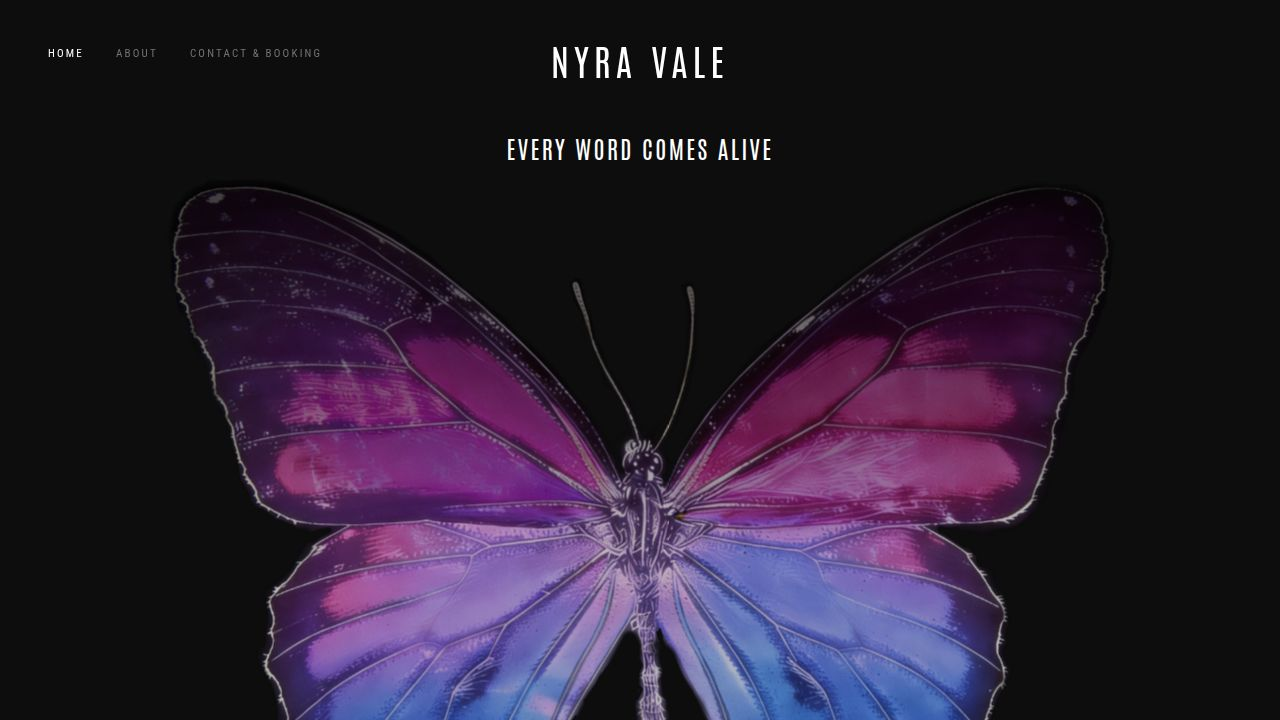
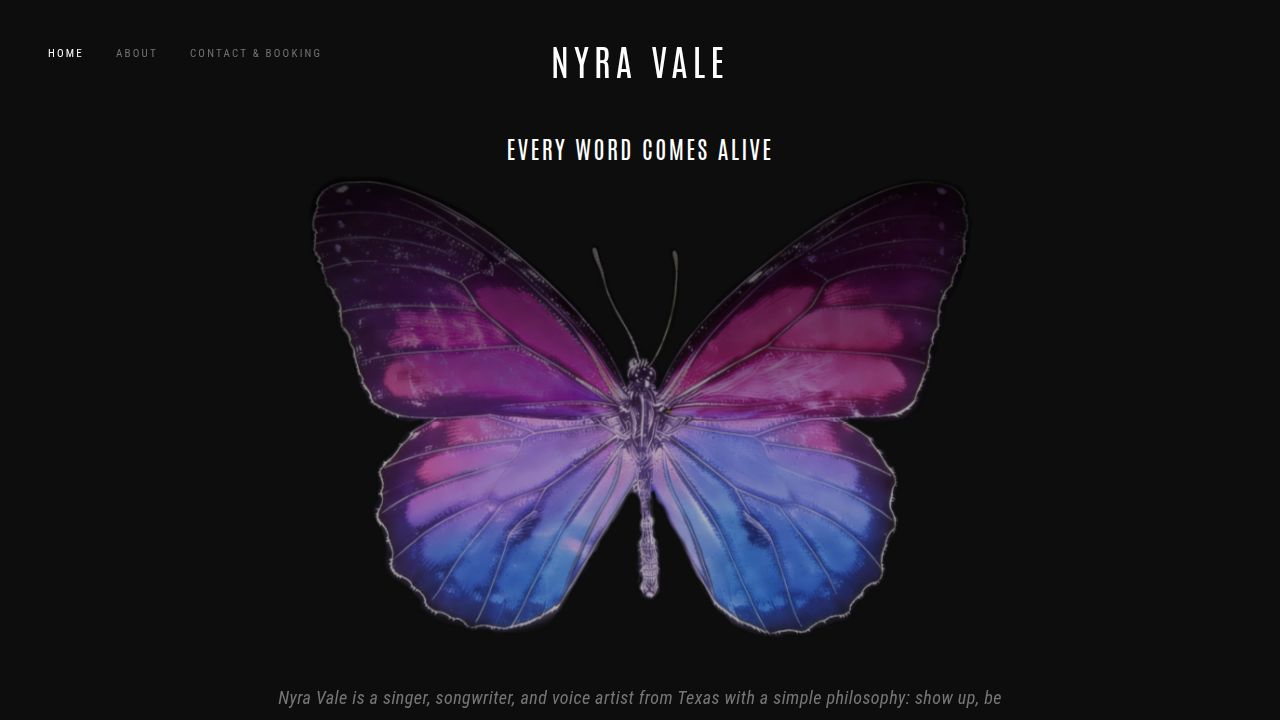
Shrink the main butterfly image size by 30% on the home page
Adjusted the `w-[94%]` class to `w-[66%]` in `client/src/pages/home.tsx` to reduce the butterfly image size by approximately 30%.

Replit-Commit-Author: Agent
Replit-Commit-Session-Id: ca07ca6d-c105-410e-9a3f-df47c52ff517
Replit-Commit-Checkpoint-Type: full_checkpoint
Replit-Commit-Event-Id: 1fe18cf9-7b39-47be-8886-e109eb1e8524
Replit-Commit-Screenshot-Url: https://storage.googleapis.com/screenshot-production-us-central1/acc114d5-8ff7-4aa1-90f1-90320e5e6cb7/ca07ca6d-c105-410e-9a3f-df47c52ff517/TObAZWH
Replit-Helium-Checkpoint-Created: true

diff --git a/client/src/pages/home.tsx b/client/src/pages/home.tsx
@@ -39,7 +39,7 @@ export default function Home() {
             whileInView={{ opacity: 1, scale: 1 }}
             viewport={{ once: true }}
             transition={{ duration: 0.8 }}
-            className="w-[94%] mx-auto relative aspect-video bg-transparent flex items-center justify-center -mt-6 md:-mt-8 -mb-6 md:-mb-8"
+            className="w-[66%] mx-auto relative aspect-video bg-transparent flex items-center justify-center -mt-6 md:-mt-8 -mb-6 md:-mb-8"
           >
             <motion.img 
               src={heroImage} 
